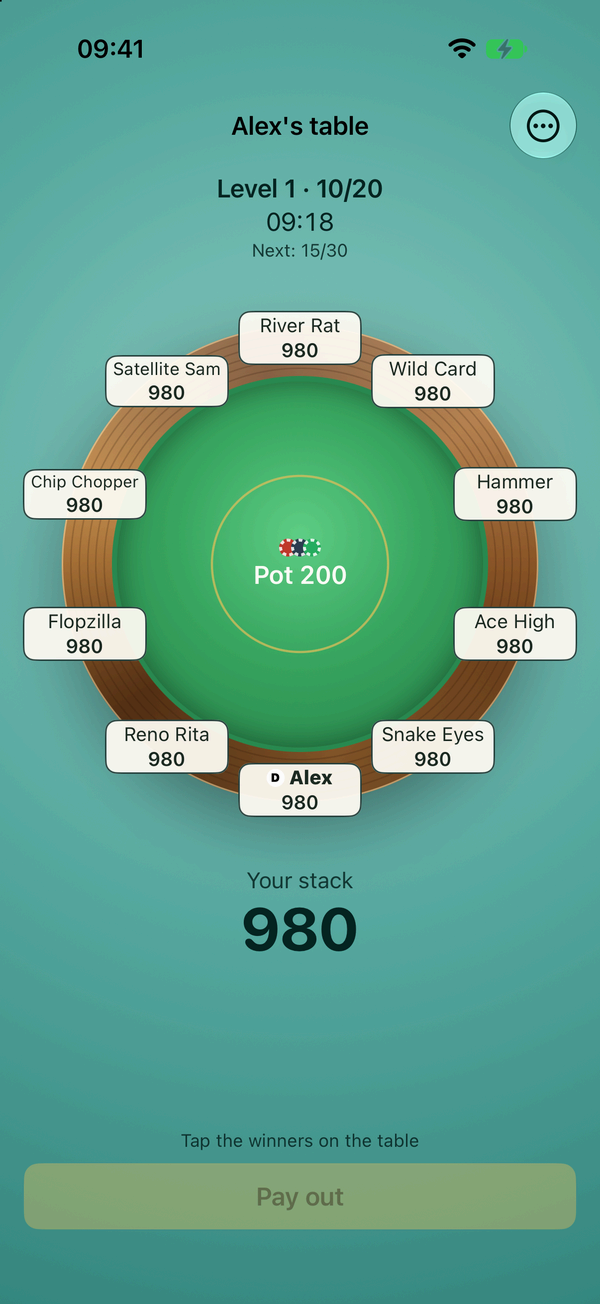
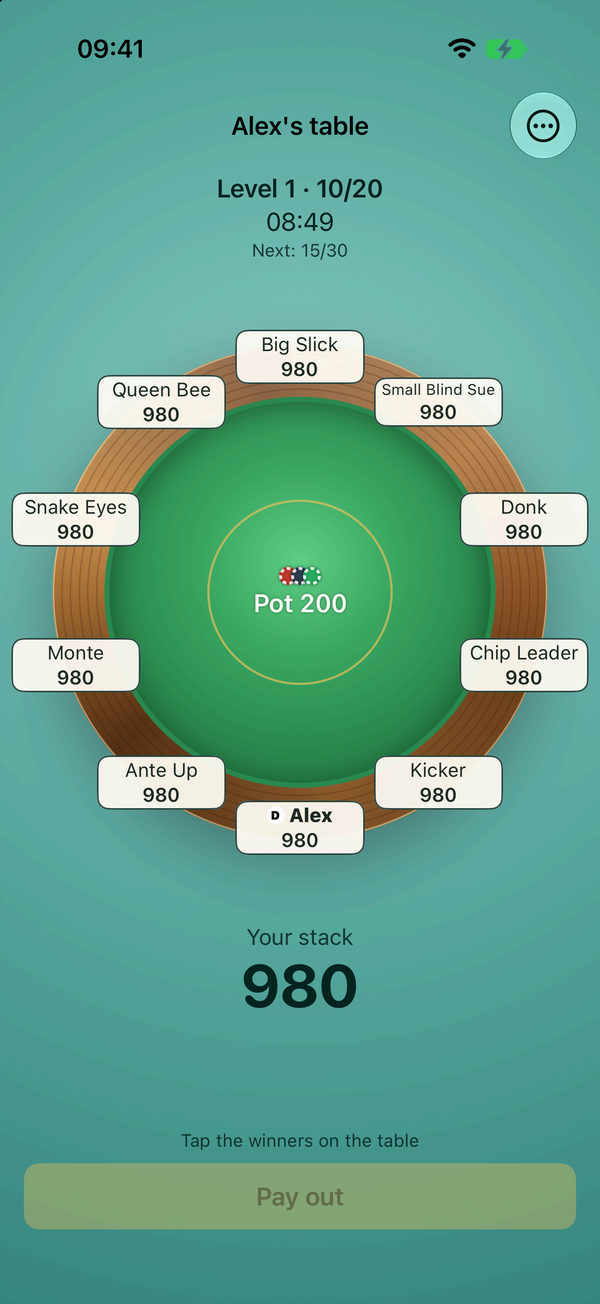
docs: English screenshots and mockups

diff --git a/docs/superpowers/specs/2026-11-16-themes-and-cards-design.md b/docs/superpowers/specs/2026-11-16-themes-and-cards-design.md
@@ -17,7 +17,7 @@ This spec is stage 1 of four. Later stages, each with its own spec: animation (s
 
 The approved mockups, rendered from HTML. They are the target look; where this text and an image disagree on a color, the hex values here win, and where they disagree on proportions, the image wins.
 
-- `images/2026-11-16-themes.jpg`: the four themes, each light (left) and dark (right). Its labels are German: "Hell" is light, "Dunkel" is dark.
+- `images/2026-11-16-themes.jpg`: the four themes, each light (left) and dark (right).
 - `images/2026-11-16-cards.jpg`: five card faces and six card back patterns.
 
 The HTML sources are in `.superpowers/brainstorm/79585-1794858420/content/` (`themes-final.html`, `cards-final.html`), local and not committed.
